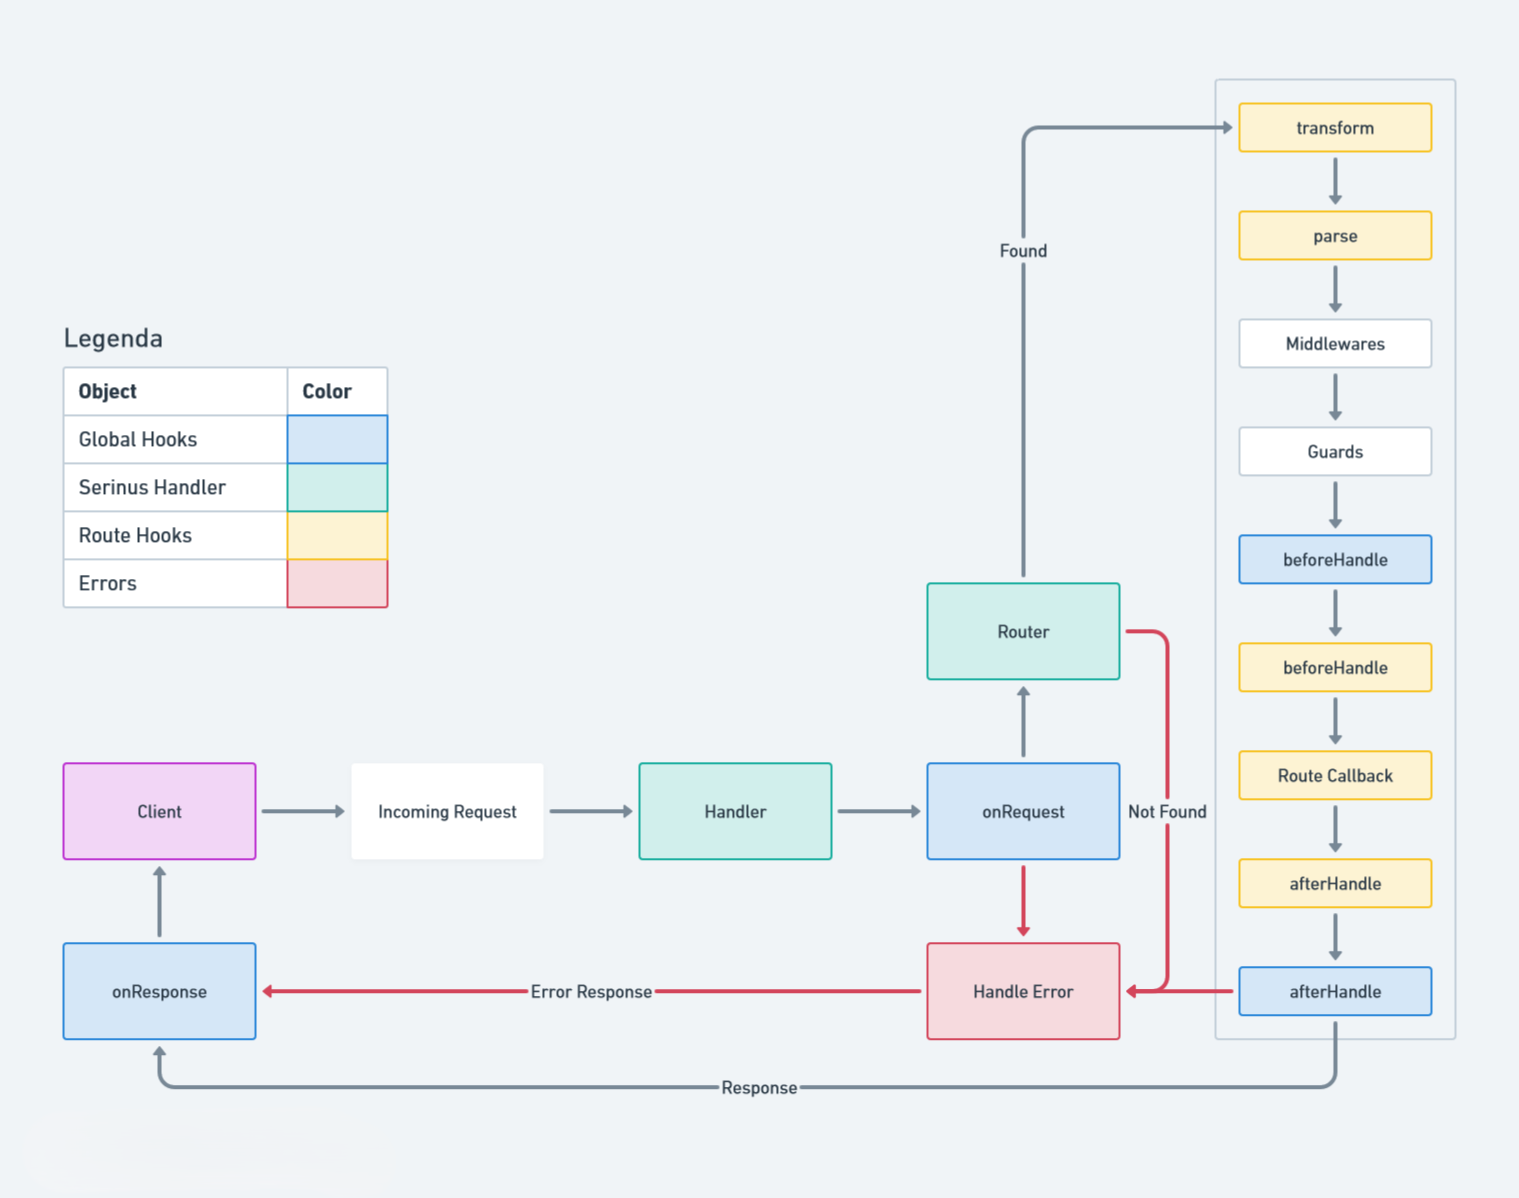
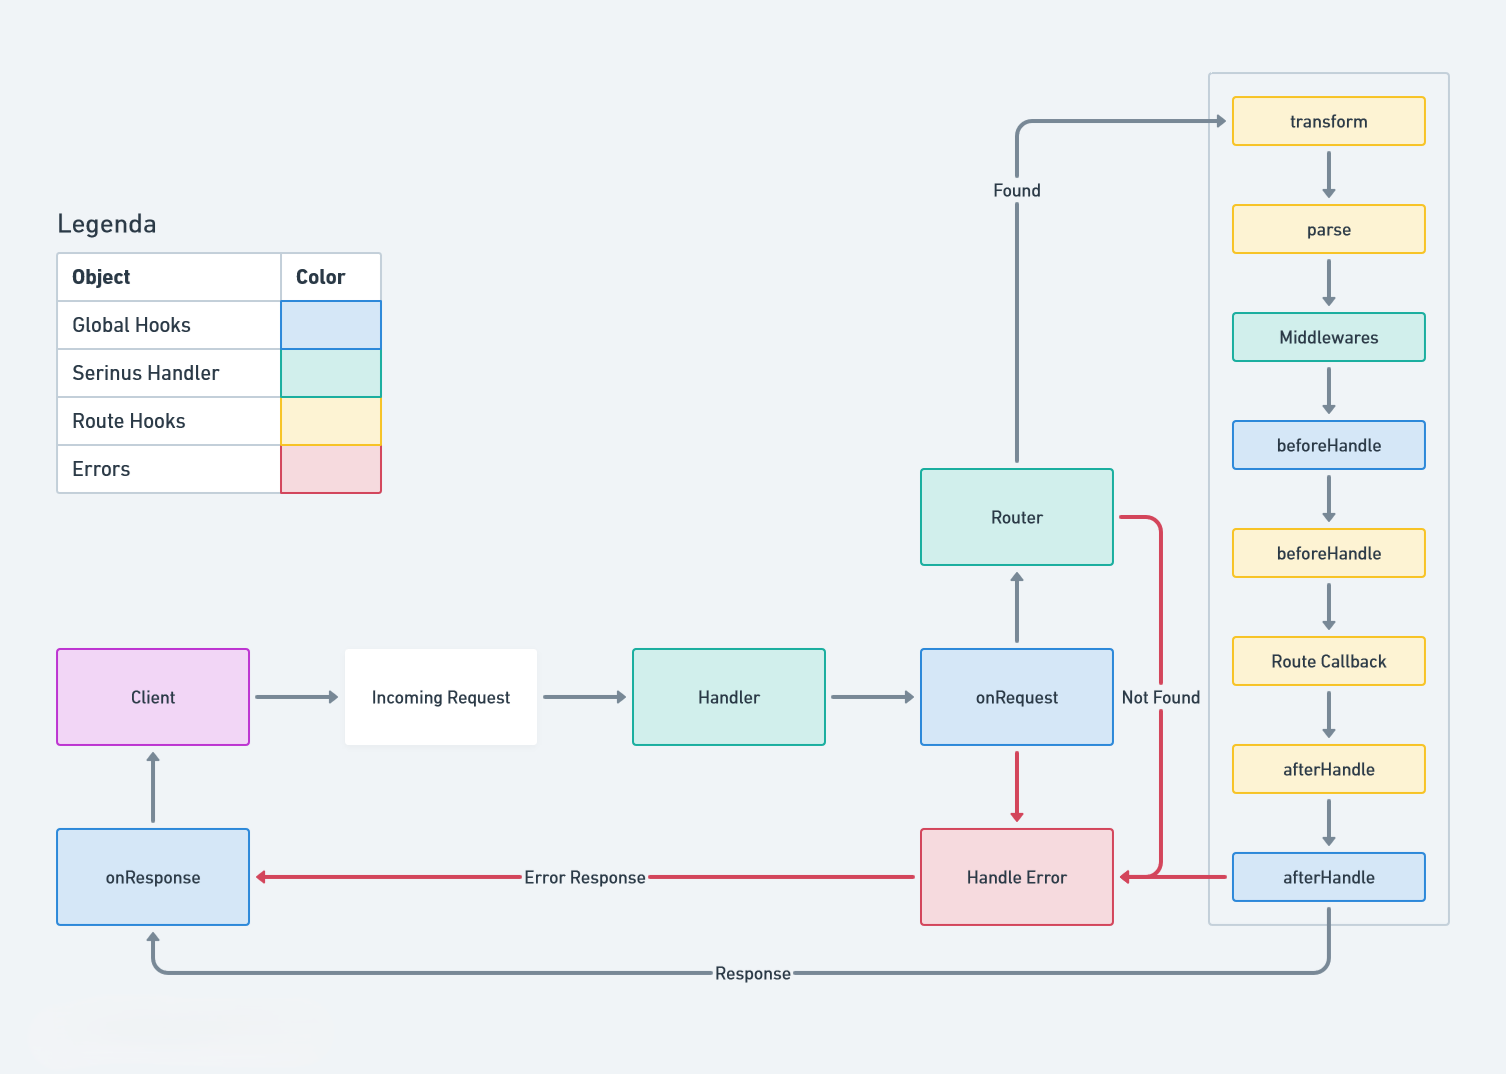
feat(#15): add correct lifecycle image

Changed region(s): [[0.0312, 0.0615, 0.9675, 0.9218], [0.0312, 0.1844, 0.2809, 0.5223], [0.2497, 0.6453, 0.3433, 0.7067]]

diff --git a/.website/request_lifecycle.md b/.website/request_lifecycle.md
@@ -13,9 +13,9 @@ The request lifecycle consists of the following steps:
 - **Routing**: Serinus determines which route to use based on the request URL.
 - **tranform**: Serinus executes the local transform hook.
 - **parse**: Serinus executes the local parse hook.
+- **Middlewares**: Serinus executes the middlewares for the route.
 - **beforeHandle**: Serinus executes the global beforeHandle hook and then the local one.
 - **Handler**: Serinus executes the handler for the route.
 - **afterHandle**: Serinus executes the local afterHandle hook and then the global one.
 - **onResponse**: Serinus executes the onResponse hooks.
 - **Response**: Serinus sends the response back to the client.
-
